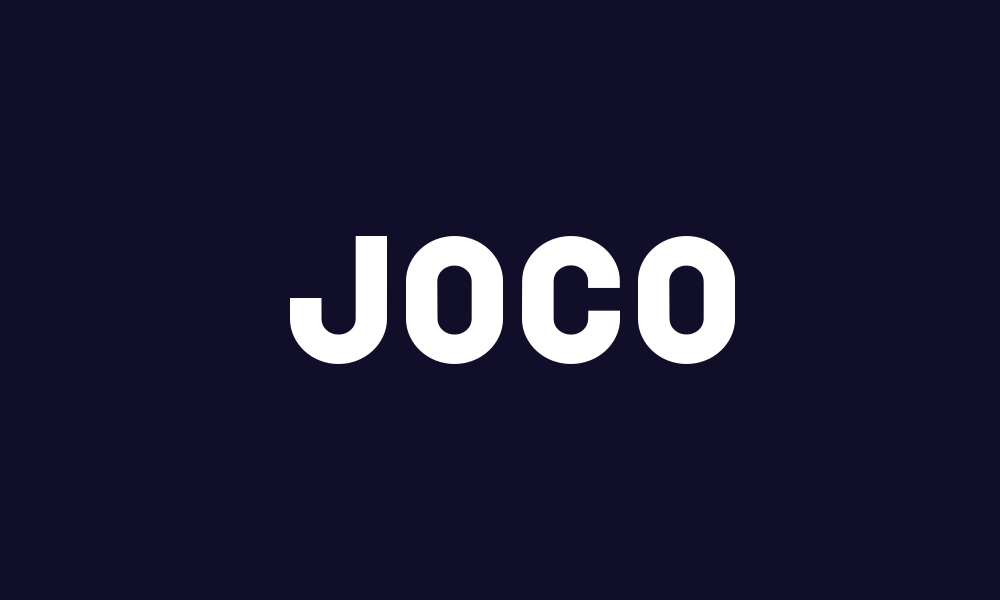
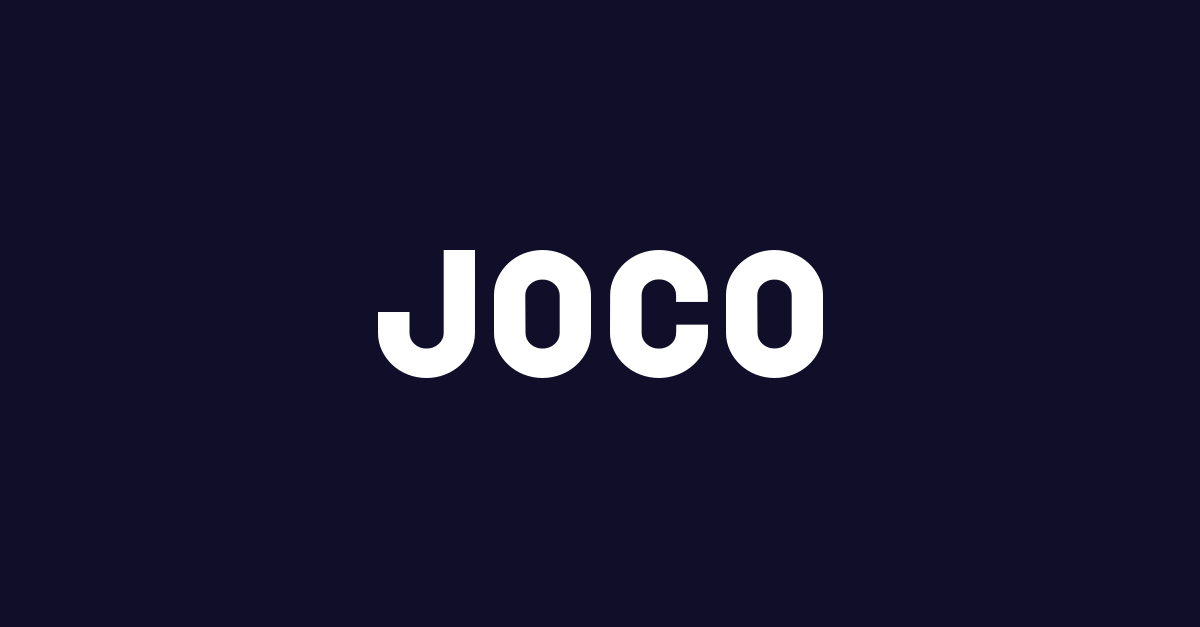
image preview fix

Changed region(s): [[0.279, 0.39, 0.744, 0.63], [0.434, 0.6, 0.465, 0.63]]

diff --git a/index.html b/index.html
@@ -6,8 +6,12 @@
   <meta charset="utf-8">
   <meta name="viewport" content="width=device-width, initial-scale=1, shrink-to-fit=no">
 
-  <!-- Preview Image -->
+  <!-- OG Meta Info -->
+  <meta property="og:title" content="Jon Corbett — Portfolio "/>
   <meta property="og:image" content="./images/preview.png"/>
+  <meta property="og:description" content="Portfolio of Jon Corbett"/>
+  <meta property="og:url" content="https://joco.io"/>
+
 
   <!-- Bootstrap CSS -->
   <link rel="stylesheet" href="https://stackpath.bootstrapcdn.com/bootstrap/4.1.3/css/bootstrap.min.css" integrity="sha384-MCw98/SFnGE8fJT3GXwEOngsV7Zt27NXFoaoApmYm81iuXoPkFOJwJ8ERdknLPMO"
